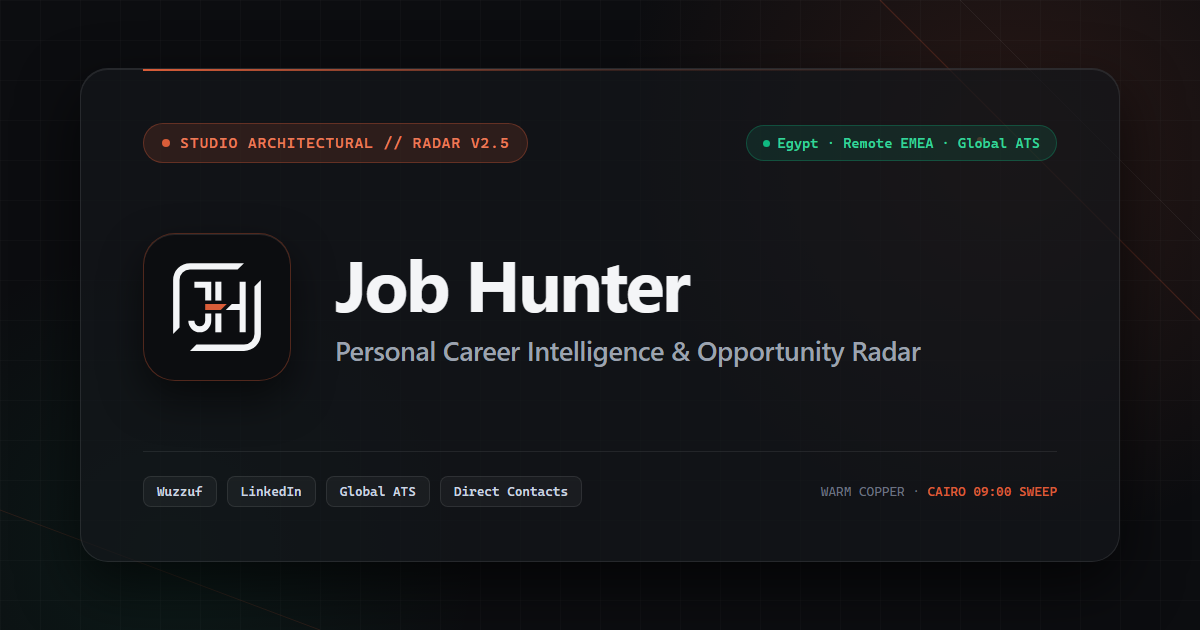
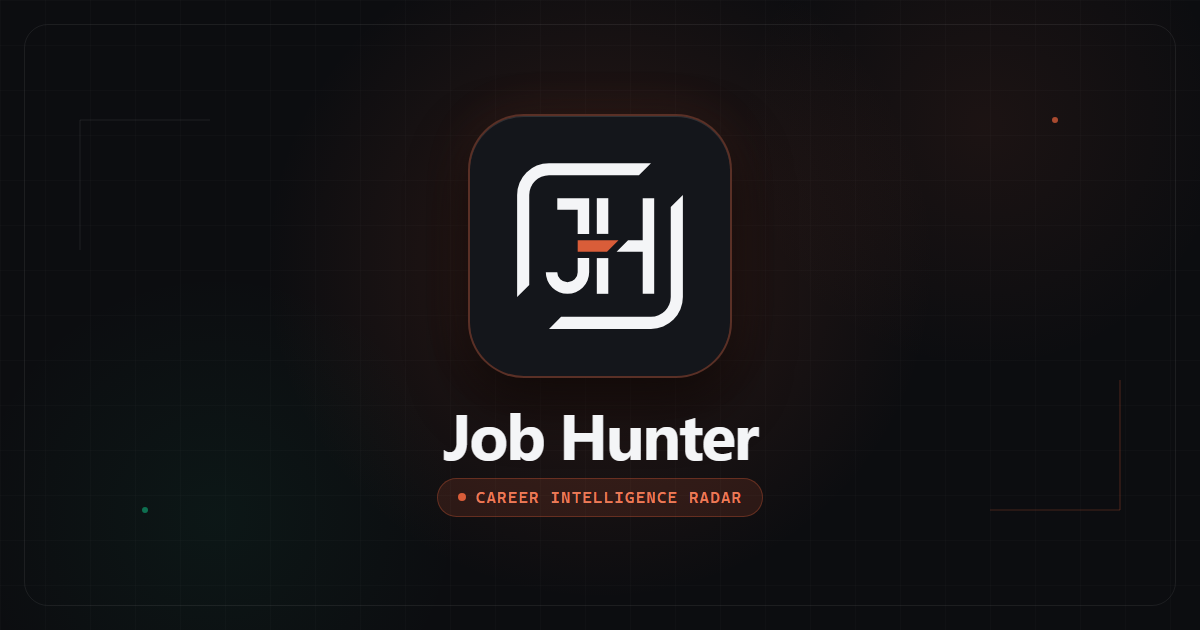
fix(seo): center-align 1200x630 og-image for 1:1 Telegram crop and bust image cache

diff --git a/frontend/src/index.html b/frontend/src/index.html
@@ -34,7 +34,7 @@
   <meta property="og:site_name" content="Job Hunter">
   <meta property="og:title" content="Job Hunter — Career Intelligence Radar">
   <meta property="og:description" content="Personal AI-powered career radar tracking Frontend &amp; Angular opportunities across Wuzzuf, LinkedIn, Indeed, and global ATS boards with direct recruiter contacts.">
-  <meta property="og:image" content="/og-image.png">
+  <meta property="og:image" content="/og-image.png?v=2">
   <meta property="og:image:type" content="image/png">
   <meta property="og:image:width" content="1200">
   <meta property="og:image:height" content="630">
@@ -46,7 +46,7 @@
   <meta name="twitter:card" content="summary_large_image">
   <meta name="twitter:title" content="Job Hunter — Career Intelligence Radar">
   <meta name="twitter:description" content="Personal AI-powered career radar tracking Frontend &amp; Angular opportunities across Wuzzuf, LinkedIn, Indeed, and global ATS boards with direct recruiter contacts.">
-  <meta name="twitter:image" content="/og-image.png">
+  <meta name="twitter:image" content="/og-image.png?v=2">
   <meta name="twitter:image:alt" content="Job Hunter — Studio Architectural Career Radar">
 
   <!-- Telegram WebApp SDK -->
